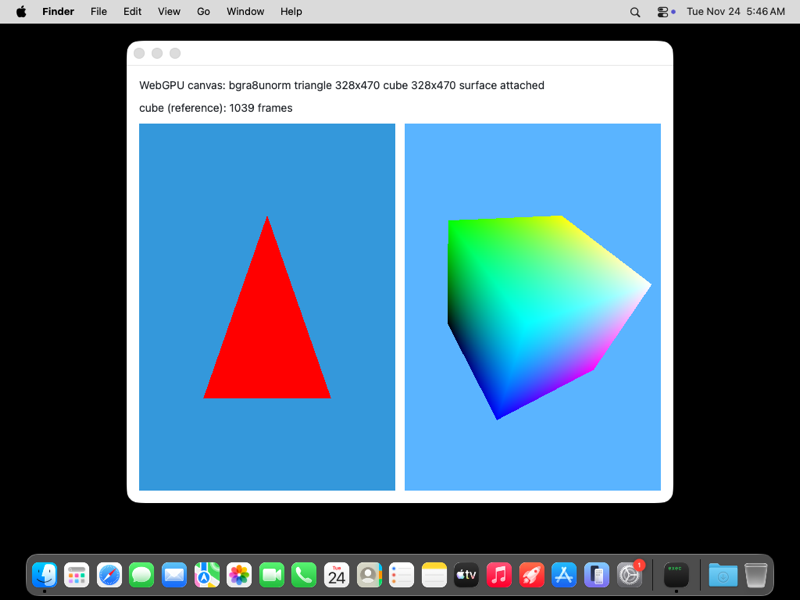
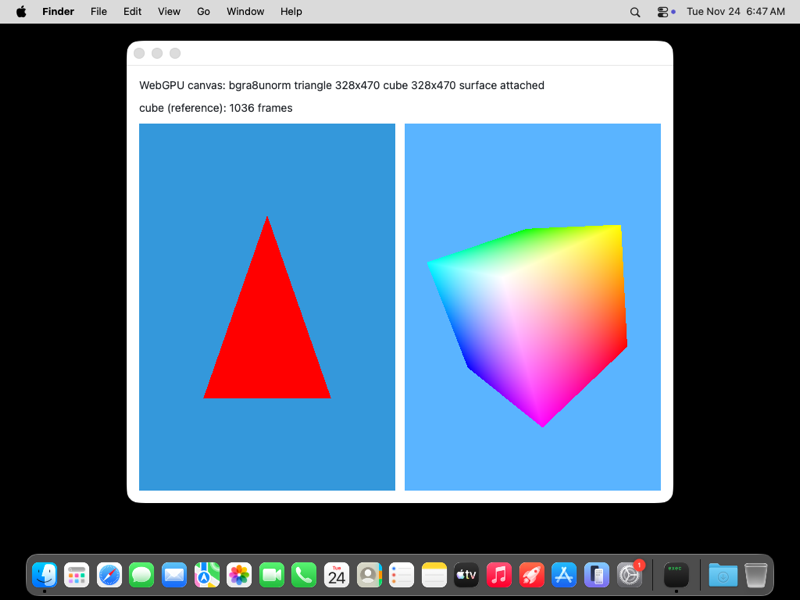
docs: the Windows canvas is a composition visual; Linux on screen

Changed region(s): [[0.5312, 0.36, 0.8125, 0.72]]

diff --git a/src/instance.rs b/src/instance.rs
@@ -1,8 +1,9 @@
 //! The process's one `wgpu::Instance`, as Dawn's `wgpu::Instance` is
 //! RNWebGPU's: every adapter, and every surface the canvas makes, comes
 //! from it. Backends follow wgpu's defaults for the platform (Metal on
-//! Apple, Vulkan/DX12 on Windows, Vulkan/GL on Linux), and `WGPU_BACKEND`
-//! and the other `WGPU_*` variables override them.
+//! Apple, Vulkan/GL on Linux; on Windows DX12 alone when it yields an
+//! adapter), and `WGPU_BACKEND` and the other `WGPU_*` variables override
+//! them.
 //!
 //! Android takes one backend per instance ([`android_backends`]): Vulkan
 //! when it yields an adapter, else GL.

diff --git a/docs/parity/surfaces-other.md b/docs/parity/surfaces-other.md
@@ -17,8 +17,8 @@ the contract of `src/surface/views.rs`: make a `wgpu::Surface<'static>` from `cr
 | Platform | How | Status | Evidence |
 |---|---|---|---|
 | Android | `FrameLayout` holding a `TextureView` (default) or `SurfaceView`; `ANativeWindow_fromSurface` → `RawHandle` (AndroidNdk) | **Run on screen** (emulator, AVD `nsh-webgpu-surfaces-other`, GLES backend), TextureView and SurfaceView side by side, animated, resized, with the one-backend `instance.rs` (applied in phase 3; area (d) ran it from a scratch copy). Without it every configure fails on Android. | `android-canvas-patched.png`, `android-canvas-patched-later.png`, `android-run-patched.txt`; failure without the patch: `android-canvas-unpatched.png`, `android-run-unpatched.txt` |
-| Windows | child `HWND` from `NativeComponent::window` → `RawHandle` (Win32); `WM_SIZE` → `views::resize`; `WM_NCHITTEST` → `HTTRANSPARENT` so input reaches NSH | **Compile-checked only** (`x86_64-pc-windows-gnu`, clippy `-D warnings`). Not run: no Windows machine. | `clippy-x86_64-pc-windows-gnu.txt` |
-| Linux | `gtk::Picture` showing offscreen frames (readback → `gdk::MemoryTexture`) | **Compile-checked only**, cross from macOS with faked `pkg-config` (type-checks against gtk4-rs, not GTK headers). Not run. | `clippy-x86_64-unknown-linux-gnu.txt` |
+| Windows | `NativeComponent::visual`: a composition surface handle (`SurfaceHandle`, DX12), scaled to the view; `placed` → `views::resize`. Without DX12, a child `HWND` from `NativeComponent::window` | **Run on screen in CI** (`docs/evidence/platforms/windows-canvas.png`) ||
+| Linux | `gtk::Picture` showing offscreen frames (readback → `gdk::MemoryTexture`) | **Run on screen** in CI and in an arm64 container (Vulkan on lavapipe) | `docs/evidence/platforms/linux-canvas.png` |
 | Web | the browser's own WebGPU, as the reference's `index.web.tsx`: a `<View testID="rnwgpu-canvas-<id>">` whose DOM element gets a `<canvas>` | **Run on screen** in a browser (`nsh run --target web`, TSX-only app). | `web-canvas-browser.png`, `web-run.txt` |
 | wasm build of the crate | `wgpu` feature `fragile-send-sync-non-atomic-wasm` (Cargo block) | Passes clippy `-D warnings` for `wasm32-unknown-unknown` (phase 3: a wasm-only `blocking` in `api/gpu.rs`, used by `adapter.rs` and `image_bitmap.rs`). Not run. | `../evidence/integration/clippy-wasm32.txt` |
 | Offscreen | `offscreen.rs`: texture-backed context + readback | **Tested** on the Mac's GPU (6 cargo tests, each seen failing on purpose). `WgpuOffscreenCanvas` is registered in `lib.rs` (phase 3), and the canvas context hands a surface-less frame to a presenting view (`offscreen::deliver`, phase 3). | `cargo-test-surfaces-other.txt`, `broken-on-purpose-{unpad,present}.txt` |
@@ -31,7 +31,7 @@ the contract of `src/surface/views.rs`: make a `wgpu::Surface<'static>` from `cr
 | `backingView: "SurfaceView"`, `opaque`, `zOrderOnTop`, `zOrderMediaOverlay` | implemented (`androidOpaque`, `androidZOrderOnTop`, `androidZOrderMediaOverlay`; opacity/z-order apply live, TextureView opaque off on API 29 as the reference) | |
 | `backingView: "HardwareBufferView"` | falls back to a TextureView with a warning | needs the reference's Java `HardwareRenderer` path; an nshm ships no Java |
 | Android surface lifecycle | followed on the UI thread's `AChoreographer` each vsync, not `SurfaceHolder.Callback` | an nshm cannot ship Java classes, so no listener interface can be implemented; a surface the system destroys is detached on the next vsync (a present racing it fails with a surface error, nothing is freed under it) |
-| Windows canvas over NSH content | a child window sits above whatever NSH draws over it (airspace) | NSH's child-window hosting; a DirectComposition visual (`NativeComponent::visual` + `SurfaceTargetUnsafe::CompositionVisual`) would lift it but ties the canvas to DX12 |
+| Windows canvas over NSH content | only without DX12: a child window sits above whatever NSH draws over it (airspace) | NSH's child-window hosting; with DX12 the canvas is a composition visual and has no such limit |
 | Linux canvas | offscreen render + one GPU→CPU→GPU copy per presented frame; a frame presented while the previous readback is in flight is dropped | a GTK 4 widget has no native window / `wl_surface` of its own; wgpu 29 cannot export a texture as dmabuf (`GdkDmabufTextureBuilder` would make it zero-copy) |
 | Linux `alphaMode` | `"opaque"` shown as `X8` memory formats, `"premultiplied"` as premultiplied | |
 | Web: `navigator.gpu`, `GPU*` classes | the browser's (`browserGPU()` reads it at module evaluation) | as the reference's web entry; `installWebGPU()` is a no-op on the web (phase 3), and `<Canvas>` renders `WebCanvasView` there |

diff --git a/docs/architecture.md b/docs/architecture.md
@@ -189,7 +189,7 @@ Animation scales a drawable. `offscreen.rs` also keeps its own context functions
 | macOS | `NSView` hosting a `CAMetalLayer` (`surface/macos.rs`, `apple.rs`) | `SurfaceTargetUnsafe::CoreAnimationLayer`; drawable = bounds × backing scale |
 | iOS | `UIView` whose `+layerClass` is `CAMetalLayer` (`surface/ios.rs`, `apple.rs`) | same |
 | Android | `FrameLayout` with a `TextureView` (default) or `SurfaceView` (`surface/android.rs`); lifecycle followed on `AChoreographer` (no Java in an nshm) | `ANativeWindow_fromSurface` → `RawHandle` (AndroidNdk); the instance has one backend (`instance.rs`) |
-| Windows | child `HWND` (`surface/windows.rs`); `WM_NCHITTEST` → `HTTRANSPARENT` | `RawHandle` (Win32) |
+| Windows | a DirectComposition visual (`surface/windows.rs`); a child `HWND` without a DX12 adapter or with `WGPU_BACKEND` set | `SurfaceHandle` (DX12), else `RawHandle` (Win32) |
 | Linux | `gtk::Picture` (`surface/linux.rs`) | none: offscreen frames read back, shown as `gdk::MemoryTexture` |
 | Web | `<canvas>` in the view's element (`tsx/surface/web.tsx`) | the browser's WebGPU context, no wgpu |
 
@@ -226,8 +226,8 @@ else GL (emulators), unless `WGPU_BACKEND` is set (`android_backends`, tested on
   falls back to a `TextureView`. (surfaces-other)
 - **GTK 4 widgets have no native window or `wl_surface`**: Linux shows offscreen frames read back each `present()`
   (one GPU→CPU→GPU copy a frame; wgpu 29 cannot export a texture as dmabuf). (surfaces-other)
-- **NSH's Windows native components are child `HWND`s**: the canvas sits above whatever NSH draws over it
-  (airspace). (surfaces-other)
+- **Windows without DX12**: the canvas is a child `HWND`, opaque and above whatever NSH draws over it (airspace).
+  With DX12 it is a composition visual and has neither limit. (surfaces-other)
 - **macOS window pictures**: `app.screenshot()` returns a black picture and `screencapture` fails without Screen
   Recording permission, so the macOS canvas is verified by reading its drawables back. (surfaces-apple)
 - **NDK 29.0.14206865's `llvm-ar` on this Mac execs itself**: `nsh run --target android` hangs in `zstd-sys`'s build;

diff --git a/README.md b/README.md
@@ -23,7 +23,7 @@ The desktops are checked by `.github/workflows/onscreen.yml` on every push: it r
 
 Not verified: a hardware GPU on Windows, Linux or Android, a physical iPhone or Android device, and Mac Catalyst.
 
-On Windows a canvas is an opaque child window: transparent parts show black, not the views under it. On Android the canvases clear to black rather than showing the views under them: the emulator's GL surfaces offer only opaque compositing, so `alphaMode: "premultiplied"` falls back to opaque there (`docs/architecture.md`, "The contract"). The earlier screenshot `docs/evidence/integration/android-canvas-apple.png` also shows an empty Triangle canvas: the example's capture copied out of the surface texture, which Android's GL surfaces cannot do (no `COPY_SRC`), so that frame's submit was invalid; the example now skips the capture on Android, and `docs/evidence/fixes/android-canvas-apple.png` shows the triangle (the explanation is in `docs/evidence/fixes/android-canvas-apple.txt`).
+On Android the canvases clear to black rather than showing the views under them: the emulator's GL surfaces offer only opaque compositing, so `alphaMode: "premultiplied"` falls back to opaque there (`docs/architecture.md`, "The contract"). The earlier screenshot `docs/evidence/integration/android-canvas-apple.png` also shows an empty Triangle canvas: the example's capture copied out of the surface texture, which Android's GL surfaces cannot do (no `COPY_SRC`), so that frame's submit was invalid; the example now skips the capture on Android, and `docs/evidence/fixes/android-canvas-apple.png` shows the triangle (the explanation is in `docs/evidence/fixes/android-canvas-apple.txt`).
 
 Not verified at all: any GPU but an Apple one (and the emulator's GL translator), a picture of a macOS window (the drawable is verified, the compositing is not), a physical iPhone or Android device, Mac Catalyst, Windows and Linux at run time.
 

diff --git a/docs/parity.md b/docs/parity.md
@@ -101,7 +101,7 @@ Linux (Vulkan on lavapipe) (the platform table in `docs/architecture.md`).
 | macOS | `NSView` hosting a `CAMetalLayer` | run on screen (CI) |
 | iOS | `UIView` whose layer is a `CAMetalLayer` | run on screen (simulator) |
 | Android | `FrameLayout` holding a `TextureView` or `SurfaceView`, `ANativeWindow` → surface | run on screen (emulator, GL) after phase 3: the view itself (`examples/canvas-native`) and `<Canvas>` + `GPUCanvasContext` (`examples/canvas-apple`, the rAF Cube) |
-| Windows | child `HWND` | run on screen (CI, DX12 on WARP); opaque: `alphaMode: "premultiplied"` shows black where the canvas is transparent |
+| Windows | a DirectComposition visual (DX12); a child `HWND`, opaque and on top, without a DX12 adapter or with `WGPU_BACKEND` set | run on screen (CI, DX12 on WARP); the child window was too |
 | Linux | `gtk::Picture` fed by offscreen frames read back at each `present()` | run on screen (CI and a container, Vulkan on lavapipe) |
 | Web | `<canvas>` in the view, the browser's WebGPU | run on screen (browser; an app using the package, `docs/evidence/platforms/web-readme-app.jpg`) |
 | wasm build of the crate | wgpu's WebGPU backend | `cargo clippy --target wasm32-unknown-unknown` passes; linked into the app's web runtime, where the browser's own WebGPU is used instead |

diff --git a/docs/guide/getting-started/canvas.md b/docs/guide/getting-started/canvas.md
@@ -57,7 +57,7 @@ Per platform:
 - macOS and iOS: wgpu's Metal surfaces offer only opaque and post-multiplied alpha. nsh-webgpu maps `"premultiplied"` to a non-opaque `CAMetalLayer`, which Core Animation composites as premultiplied: what the spec means. Seen on screen in the iOS simulator (`docs/evidence/surfaces-apple/ios-simulator-screen.png`).
 - Android: as in the reference, the backing view decides. A `TextureView` (the default) composites with alpha unless `android={{ opaque: true }}`; a `SurfaceView` is opaque unless `opaque: false`.
 - Linux: `"opaque"` frames are shown without alpha, `"premultiplied"` as premultiplied.
-- Windows: the canvas is a child window, which sits above anything NSH draws over it (airspace) and is opaque: `"premultiplied"` shows black where the canvas is transparent.
+- Windows: with DX12 (the default) the canvas is a composition visual, so it can be transparent and NSH draws over it. Without a DX12 adapter, or with `WGPU_BACKEND` set, it is a child window: opaque, and above anything NSH draws over it.
 
 ## Color space
 

diff --git a/docs/guide/api/canvas.md b/docs/guide/api/canvas.md
@@ -57,7 +57,7 @@ Both `TextureView` and `SurfaceView` were seen on screen on an emulator with the
 
 ## Other platforms
 
-- Windows: a child `HWND`; it sits above anything NSH draws over the canvas.
+- Windows: a DirectComposition visual on DX12; else a child `HWND`, opaque and above anything NSH draws over it.
 - Linux: a `gtk::Picture` showing offscreen frames, one GPU→CPU→GPU copy per presented frame (GTK 4 gives a widget no window of its own, and wgpu cannot export a dmabuf).
 - Web: the browser's own WebGPU and `<canvas>` (id `rnwgpu-canvas-<id>`), with a no-op `present()` and a drawing buffer of the layout size times `devicePixelRatio`, as the reference's web build.
 

diff --git a/CHANGELOG.md b/CHANGELOG.md
@@ -40,6 +40,7 @@ The first version: react-native-webgpu (`06599f9`) ported to NSH on wgpu 29, for
 - NSH nightly `589a60f`: on Linux, `requestAnimationFrame` fires (it never did on `f577c51`).
 - Linux and Android: concurrent `requestAdapter()` calls no longer panic in wgpu's EGL code.
 - Windows, Linux and Android: a device's memory blocks start at 8 MB and grow (wgpu's default takes 256 MB + 64 MB at once).
+- Windows: with DX12 the canvas is a composition visual: `alphaMode: "premultiplied"` works and NSH draws over it. The instance there is DX12's alone when it yields an adapter.
 - Rust 1.100: no warning in the crate or its manifest.
 
 ### Fixed (phase 4a)
